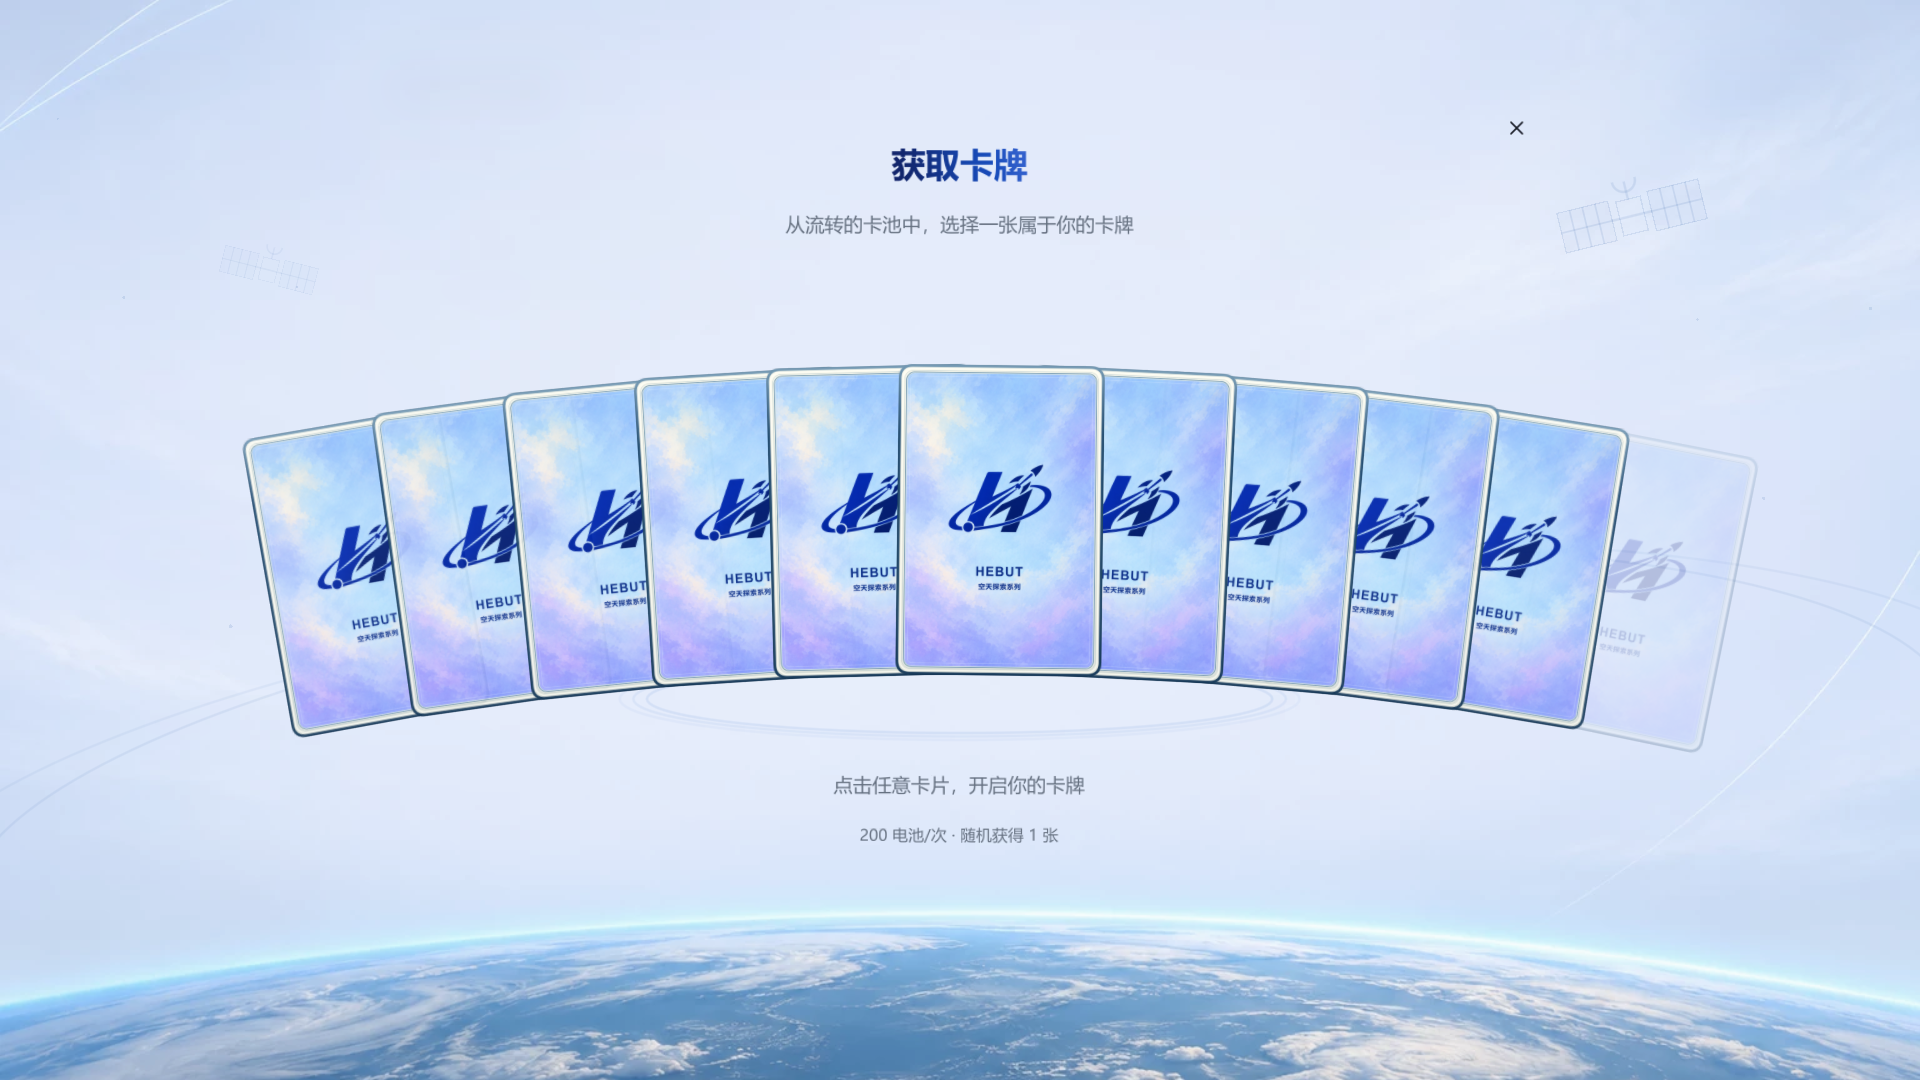
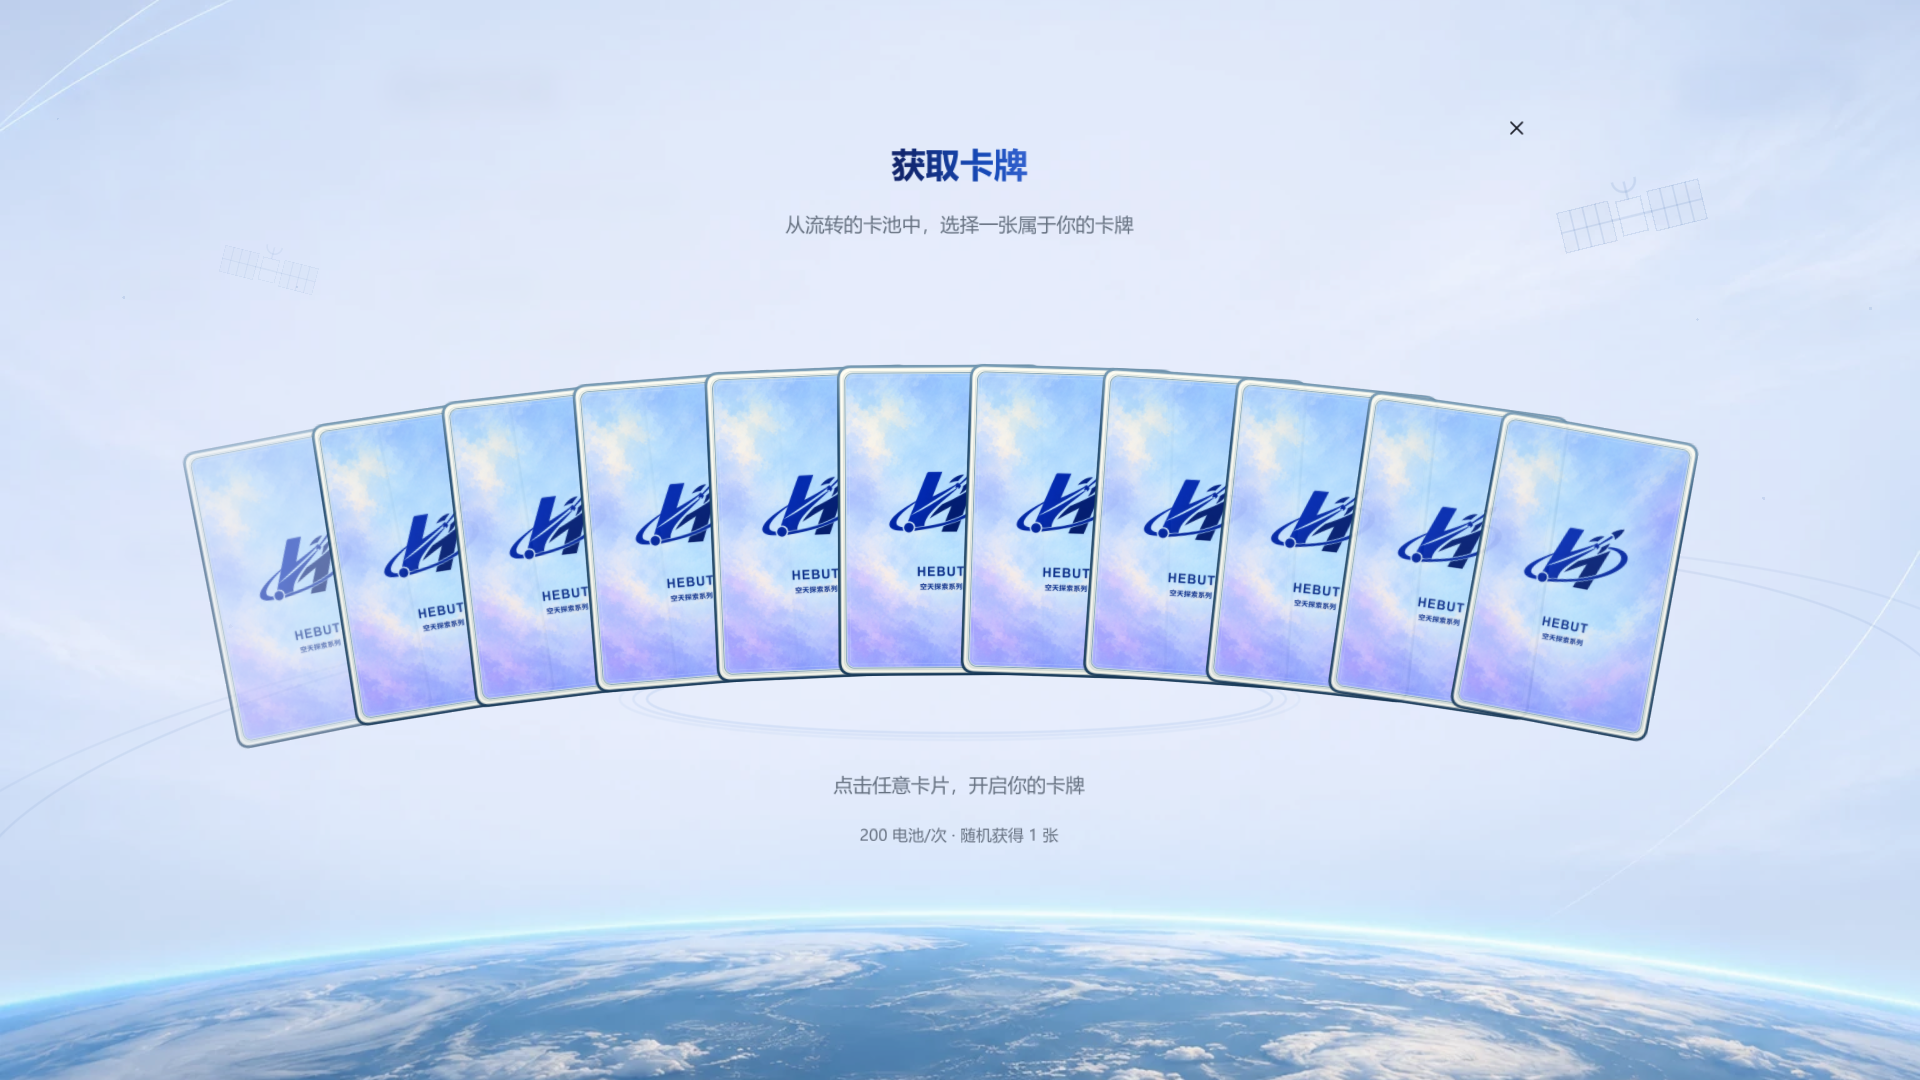
Stabilize card stacking and restore white action-button text

Changed region(s): [[0.0938, 0.3361, 0.9062, 0.7028]]

diff --git a/CARD_ACQUISITION_IMPLEMENTATION.md b/CARD_ACQUISITION_IMPLEMENTATION.md
@@ -41,7 +41,7 @@
 8. Esc、关闭和返回按钮沿用统一退出：取消新增卡池 Tween 与帧循环、冻结当前可见姿态，原 200ms 退出完成后卸载并恢复入口焦点。关闭不取消业务服务，迟到回执只持久化，不重开弹层。
 9. 减少动态效果时卡池静止；停中与交接直接完成，结果仍通过原短交叉淡化显示。运行中切换偏好也保留同一回执。
 
-点击反馈与上述业务/流转并行。鼠标按下立即点亮原卡背外缘并在约 60ms 内压至 0.97；有效点击后，0–60ms 确认按压，60–180ms 展开蓝白与少量暖金轨道光弧并回弹至约 1.03，120–390ms 播放 24 个沿航迹移动的星点，320–450ms 收束为稳定薄微光。选中卡片在整组弧线轨迹中保持原中心与位置，并置于相邻卡片前方以便追踪；特效同步其倾角、缩放、透明度和绘制深度，跨越两端时一起淡出/淡入。光弧前后分层，前层避开卡片文字区域。放大交接的末段收掉微光，700ms 翻面不等待额外特效。图片、Logo、声音偏好、结果及价格不变。
+点击反馈与上述业务/流转并行。鼠标按下立即点亮原卡背外缘并在约 60ms 内压至 0.97；有效点击后，0–60ms 确认按压，60–180ms 展开蓝白与少量暖金轨道光弧并回弹至约 1.03，120–390ms 播放 24 个沿航迹移动的星点，320–450ms 收束为稳定薄微光。全部 11 张卡固定采用右侧覆盖左侧的层叠顺序，选中、居中和放大时均不临时提层；只在两端完全淡出后循环换位。特效同步所选卡片的倾角、缩放、透明度和绘制深度，跨越两端时一起淡出/淡入。光弧前后分层，前层避开卡片文字区域。放大交接的末段收掉微光，700ms 翻面不等待额外特效。图片、Logo、声音偏好、结果及价格不变。
 
 选中卡背本身也保持静态冷白柔光：使用原图亮度保护深色 Logo 和文字，只提亮纸面与云纹，原 PNG 的 Alpha 不变。双轨和星点消失后，卡背柔光与边缘微光继续指示同一张选中卡；在放大交接末段一同淡去。按下时先给较轻的预反馈，确认点击后达到常亮强度；其他卡片不提亮。
 
@@ -88,6 +88,8 @@ python tools/run_workbench_checks.py --godot '<Godot 4.6.2 控制台程序>' --s
 本轮实际检查：新卡池专项在 **OpenGL Compatibility 与默认 Vulkan Forward+ 渲染器下各 221 项通过**；原获卡回归 **34 项通过**；原 CardReveal、收藏页及架构边界回归通过。验证包括左侧牌堆、从左向右铺开、入场点击保护、中途关闭/重开与减少动态效果切换，以及逐张原生鼠标选择全部 11 个卡位（含左右两端），逐卡验证整组沿原方向连续移动、选中卡片真正到中转正后才交接，先到中/先收回执两种时序，重叠处选中最上层卡片，透明外角不拦截，悬停减速和移开恢复，跨卡快速连点一次扣费，请求不携带卡牌 ID，服务器返回与点击卡位不同的结果，全部七款卡交接矩形一致，错误卡图，迟到结果关闭/重开，重复获得，Space/Tab/Esc，运行中减少动态效果以及 900×620 / 1600×540 / 1920×1080 适配。截图在 `outputs/card-carousel-validation/`，最新卡带为 `02-dense-arc-flow.png`，悬停状态为 `02-hover-slowdown.png`；新入场的牌堆、展开中和接近完成分别为 `01a-left-card-pile.png`、`01b-spreading-right.png`、`01c-almost-unfolded.png`。
 
 上述完整回归最初在 900ms 入场版执行；450ms 最终版再次通过 Vulkan 完整 221 项检查与 OpenGL 原生入场专项。截图在内存中暂存，待展开完成后再编码，避免 PNG 编码耗时干扰短动画的阶段采样。
+
+固定右压左后，OpenGL 完整卡池回归 224 项通过，新增验证待选、选中、居中/放大时层叠顺序保持一致，以及重叠区域命中右侧可见卡片。
 
 所有获卡数据使用隔离 provider 和独立 `workbench-check-*` 存档。未对正式账号扣费、未修改或重新部署后端、未导出安装包。原 CardReveal 检查退出时出现过 Godot ObjectDB 清理警告，断言通过；本轮卡池专项与原获卡回归无该警告。
 
